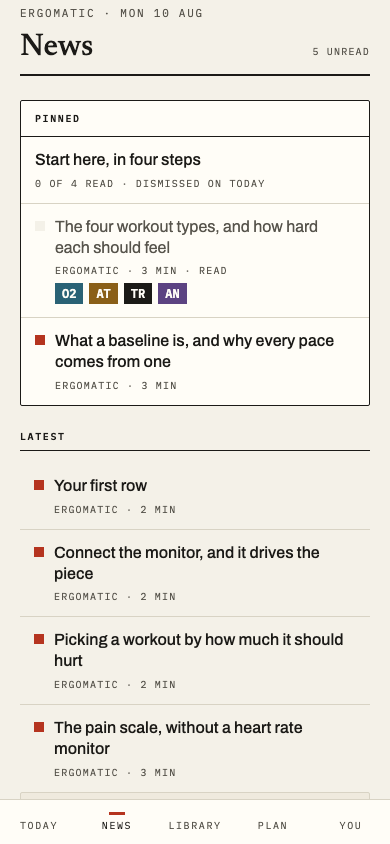
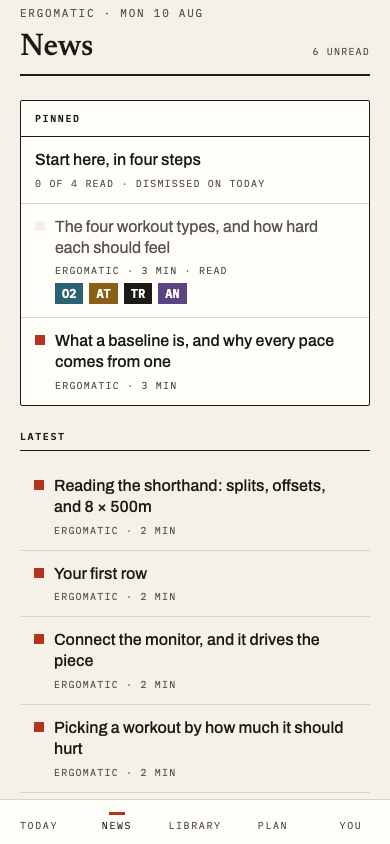
feat: News teaches the shorthand — splits, offsets, chains, rest, SPM
Claude-Session: https://claude.ai/code/session_01KY9P1bYNt9uJ4hgTN18TgH

diff --git a/app/e2e/news.spec.ts b/app/e2e/news.spec.ts
@@ -10,14 +10,14 @@ import { RUN_ID, signInViaBackdoor } from "./helpers";
 // `server/stores/articleReads.ts`), and the compose stack this suite runs
 // against is left running between back-to-back `pnpm e2e` invocations
 // (`E2E_KEEP=1` default, `scripts/e2e.sh`), so a fixed email string would
-// carry read state from one run into the next and make "6 UNREAD" a lie on
+// carry read state from one run into the next and make "7 UNREAD" a lie on
 // the second pass. `RUN_ID` is computed once per test PROCESS (i.e. once
 // per `pnpm e2e` invocation, however many times this file itself re-runs
 // inside a single process) and folded into every email below, so each
 // invocation gets its own never-before-seen users regardless of what a
 // prior run left in the database — the "fresh user" half of the brief's
 // own suggested fix, not the "assert deltas" half, since the brief's own
-// literal assertions ("6 UNREAD", "5 UNREAD" — Phase 6I Task 6 shifted
+// literal assertions ("7 UNREAD", "6 UNREAD" — Phase 6I Task 6 shifted
 // these up by 2 from the original "4 UNREAD"/"3 UNREAD" once
 // your-first-row/connect-the-monitor joined the registry) are absolute
 // counts.
@@ -42,7 +42,7 @@ test("tab order: TODAY · NEWS · LIBRARY · PLAN · YOU, TREND gone", async ({
   expect(labels).toEqual(["TODAY", "NEWS", "LIBRARY", "PLAN", "YOU"]);
 });
 
-test("News at rest: 6 UNREAD, two pinned rows, four latest rows, WHAT'S NEW v0.5.1", async ({
+test("News at rest: 7 UNREAD, two pinned rows, five latest rows, WHAT'S NEW v0.5.1", async ({
   page,
 }) => {
   await signInViaBackdoor(page, {
@@ -51,7 +51,7 @@ test("News at rest: 6 UNREAD, two pinned rows, four latest rows, WHAT'S NEW v0.5
   });
   await page.goto("/news");
 
-  await expect(page.locator(".news-unread-count")).toHaveText("6 UNREAD");
+  await expect(page.locator(".news-unread-count")).toHaveText("7 UNREAD");
 
   // PINNED: workout-types (with type chips), then baselines — registry
   // order, both permanently pinned (articles.tsx's own `pinned: true`).
@@ -75,20 +75,24 @@ test("News at rest: 6 UNREAD, two pinned rows, four latest rows, WHAT'S NEW v0.5
   // whatsnew)` selector would still correctly skip, but a named positive
   // selector is the more robust contract going forward.
   const latestRows = page.locator(".news-latest .news-row");
-  await expect(latestRows).toHaveCount(4);
+  await expect(latestRows).toHaveCount(5);
   await expect(latestRows.nth(0)).toHaveAttribute(
     "href",
-    "/news/your-first-row",
+    "/news/reading-the-shorthand",
   );
   await expect(latestRows.nth(1)).toHaveAttribute(
     "href",
-    "/news/connect-the-monitor",
+    "/news/your-first-row",
   );
   await expect(latestRows.nth(2)).toHaveAttribute(
     "href",
+    "/news/connect-the-monitor",
+  );
+  await expect(latestRows.nth(3)).toHaveAttribute(
+    "href",
     "/news/picking-a-workout",
   );
-  await expect(latestRows.nth(3)).toHaveAttribute("href", "/news/pain-scale");
+  await expect(latestRows.nth(4)).toHaveAttribute("href", "/news/pain-scale");
 
   await expect(page.getByRole("heading", { name: "WHAT'S NEW" })).toBeVisible();
   await expect(page.locator(".news-release-version").first()).toContainText(
@@ -104,7 +108,7 @@ test("opening the baselines article marks it read, and the read survives BACK an
     name: "News Reader",
   });
   await page.goto("/news");
-  await expect(page.locator(".news-unread-count")).toHaveText("6 UNREAD");
+  await expect(page.locator(".news-unread-count")).toHaveText("7 UNREAD");
 
   const baselinesRow = page.locator('a.news-row[href="/news/baselines"]');
   await expect(baselinesRow).toHaveAttribute("data-read", "false");
@@ -121,7 +125,7 @@ test("opening the baselines article marks it read, and the read survives BACK an
   await page.getByRole("link", { name: "← BACK" }).click();
   await expect(page).toHaveURL(/\/news$/);
 
-  await expect(page.locator(".news-unread-count")).toHaveText("5 UNREAD");
+  await expect(page.locator(".news-unread-count")).toHaveText("6 UNREAD");
   await expect(baselinesRow).toHaveAttribute("data-read", "true");
   await expect(baselinesRow.locator(".news-row-meta")).toContainText("READ");
 
@@ -129,7 +133,7 @@ test("opening the baselines article marks it read, and the read survives BACK an
   // navigation (same SPA session) but not a hard reload — this is the one
   // assertion no client test can give, the entire point of this phase.
   await page.reload();
-  await expect(page.locator(".news-unread-count")).toHaveText("5 UNREAD");
+  await expect(page.locator(".news-unread-count")).toHaveText("6 UNREAD");
   await expect(baselinesRow).toHaveAttribute("data-read", "true");
   await expect(baselinesRow.locator(".news-row-meta")).toContainText("READ");
 });

diff --git a/app/src/news/content/bodies/notation.tsx b/app/src/news/content/bodies/notation.tsx
@@ -1,0 +1,66 @@
+import ArticleLink from "../../ArticleLink";
+
+export function NotationBody() {
+  return (
+    <>
+      <p>
+        Rowing has its own shorthand, and the app uses it everywhere: on Today's
+        suggestion, in the Library's structure lines, on the monitor. None of it
+        is complicated. It just assumes you know five small conventions, so here
+        they are.
+      </p>
+
+      <p>
+        <strong>The split.</strong> Rowers do not measure speed in kilometres
+        per hour. They measure how long 500 metres takes, and call it a split. A
+        split of 2:05.0 means every 500 metres costs you two minutes and five
+        seconds. Smaller number, faster boat: 2:00 is quicker than 2:10. The
+        decimal is tenths of a second, and yes, tenths matter. Every pace target
+        in the app is a split.
+      </p>
+
+      <p>
+        <strong>Offsets.</strong> A workout never names a raw split, because
+        your raw split changes as you get fitter. Instead it says 6k +10: your{" "}
+        <ArticleLink to="/news/baselines">6k baseline pace</ArticleLink>, plus
+        ten seconds per 500. Plus means slower and easier; minus means faster
+        and harder. 6k +10 is a conversational cruise, 2k −2 is a bad place to
+        live. When a piece says ALL OUT or EASY instead, that is deliberate:
+        some efforts are not supposed to have a number.
+      </p>
+
+      <p>
+        <strong>Counts and chains.</strong> 8 × 500m reads "eight pieces of 500
+        metres each". When the pieces differ, they chain with hyphens:
+        2-4-6-8-6-4-2 is seven pieces climbing from two minutes up to eight and
+        back down. The convention doing quiet work here: a bare number is
+        minutes, and metres always wear their unit. So 2000m-6-1000m-3 is a
+        2,000 metre piece, six minutes, a 1,000 metre piece, three minutes. If
+        there is no m, you are reading time.
+      </p>
+
+      <p>
+        <strong>Rest.</strong> The tick mark is minutes: 2′ r after a piece
+        means two minutes of easy movement before the next one, and · 2′ REST on
+        a Library line means every gap in that workout is the same two minutes.
+        Rest belongs to the piece it follows. On Today, a piece with no rest
+        after it is usually the last one.
+      </p>
+
+      <p>
+        <strong>Stroke rate.</strong> SPM is strokes per minute, and it is
+        cadence, not effort. You can pull hard and slow at 20, or light and
+        quick at 30. When a piece names a rate, hold the rate and let the split
+        come from how hard each stroke is. That separation is most of erg
+        technique in one sentence.
+      </p>
+
+      <p>
+        Two more numbers you will meet on Today's card: WORK is the rowing
+        alone, TOTAL adds the rests. The difference is exactly the recovery you
+        are owed, and nothing about either includes your warm-up, which belongs
+        to you and lives on the You screen.
+      </p>
+    </>
+  );
+}

diff --git a/app/src/news/News.test.tsx b/app/src/news/News.test.tsx
@@ -67,7 +67,7 @@ beforeEach(() => {
 });
 
 describe("News", () => {
-  it("ready with nothing read: both pins and all four latest stories render, 6 UNREAD, every square unread", () => {
+  it("ready with nothing read: both pins and all five latest stories render, 7 UNREAD, every square unread", () => {
     mockUseArticleReads.mockReturnValue(readyState([]));
     const { container } = renderNews();
 
@@ -87,21 +87,24 @@ describe("News", () => {
     expect(
       screen.getByText("Connect the monitor, and it drives the piece"),
     ).toBeVisible();
+    expect(
+      screen.getByText("Reading the shorthand: splits, offsets, and 8 × 500m"),
+    ).toBeVisible();
 
-    expect(screen.getByText("6 UNREAD")).toBeVisible();
+    expect(screen.getByText("7 UNREAD")).toBeVisible();
 
     const squares = container.querySelectorAll(".news-square");
-    expect(squares).toHaveLength(6);
+    expect(squares).toHaveLength(7);
     for (const sq of squares) {
       expect(sq).toHaveAttribute("data-read", "false");
     }
   });
 
-  it("baselines read: count drops to 5 UNREAD, only the baselines square/meta flip to read", () => {
+  it("baselines read: count drops to 6 UNREAD, only the baselines square/meta flip to read", () => {
     mockUseArticleReads.mockReturnValue(readyState(["baselines"]));
     const { container } = renderNews();
 
-    expect(screen.getByText("5 UNREAD")).toBeVisible();
+    expect(screen.getByText("6 UNREAD")).toBeVisible();
 
     const baselinesRow = screen
       .getByText("What a baseline is, and why every pace comes from one")
@@ -116,7 +119,7 @@ describe("News", () => {
     const otherSquares = [...container.querySelectorAll(".news-square")].filter(
       (sq) => sq !== baselinesRow!.querySelector(".news-square"),
     );
-    expect(otherSquares).toHaveLength(5);
+    expect(otherSquares).toHaveLength(6);
     for (const sq of otherSquares) {
       expect(sq).toHaveAttribute("data-read", "false");
     }
@@ -131,6 +134,7 @@ describe("News", () => {
         "pain-scale",
         "your-first-row",
         "connect-the-monitor",
+        "reading-the-shorthand",
       ]),
     );
     renderNews();

diff --git a/app/e2e/onboarding.spec.ts b/app/e2e/onboarding.spec.ts
@@ -148,7 +148,7 @@ test.describe("Phase 6I: Today onboarding — the fresh-user arc", () => {
     //    advances the SAME count Today's block shows (the spec's own
     //    "linking rather than restating" principle) — no restating needed.
     await page.goto("/news");
-    await expect(page.locator(".news-unread-count")).toHaveText("6 UNREAD");
+    await expect(page.locator(".news-unread-count")).toHaveText("7 UNREAD");
     await page.locator('a.news-row[href="/news/baselines"]').click();
     await expect(page).toHaveURL(/\/news\/baselines$/);
     await expect(page.locator(".reader-body")).toBeVisible();
@@ -381,7 +381,7 @@ test.describe("Phase 6I: Today onboarding — the fresh-user arc", () => {
     // from 5 (after the earlier read) to 6 (this account's full, untouched
     // registry) — a real reversal, not merely "still shows 6 because
     // nothing else was ever read."
-    await expect(page.locator(".news-unread-count")).toHaveText("6 UNREAD");
+    await expect(page.locator(".news-unread-count")).toHaveText("7 UNREAD");
     await expect(
       page.locator('a.news-row[href="/news/baselines"]'),
     ).toHaveAttribute("data-read", "false");

diff --git a/app/src/news/content/articles.tsx b/app/src/news/content/articles.tsx
@@ -5,6 +5,7 @@ import { PickingAWorkoutBody } from "./bodies/pickingAWorkout";
 import { PainScaleBody } from "./bodies/painScale";
 import { YourFirstRowBody } from "./bodies/yourFirstRow";
 import { ConnectTheMonitorBody } from "./bodies/connectTheMonitor";
+import { NotationBody } from "./bodies/notation";
 
 // Registry order is display order (pins first, then latest — within a tie
 // on `publishedAt`, `latestArticles`' stable sort falls back to THIS array
@@ -88,6 +89,18 @@ export const ARTICLES: NewsArticle[] = [
     pinned: false,
     publishedAt: "2026-08-08",
     body: <ConnectTheMonitorBody />,
+  },
+  // Appended per the registry-order rule above: nextUnreadSlug's walk and
+  // the pinned adjacencies stay untouched, and the newest publishedAt
+  // sorts this to the top of LATEST on its own. 292 words -> 2 min.
+  {
+    slug: "reading-the-shorthand",
+    title: "Reading the shorthand: splits, offsets, and 8 × 500m",
+    minutes: 2,
+    kind: "first-party",
+    pinned: false,
+    publishedAt: "2026-08-10",
+    body: <NotationBody />,
   },
 ];
 

diff --git a/app/src/news/content/articles.test.tsx b/app/src/news/content/articles.test.tsx
@@ -51,12 +51,13 @@ describe("article registry invariants", () => {
     expect(connectTheMonitor.minutes).toBe(2);
   });
 
-  it("launch shelf: the two permanent pins plus four latest stories (Phase 6I Task 6: your-first-row/connect-the-monitor land newest, sorting ahead of the two 6H stories)", () => {
+  it("launch shelf: the two permanent pins plus five latest stories (reading-the-shorthand lands newest of all)", () => {
     expect(pinnedArticles().map((a) => a.slug)).toStrictEqual([
       "workout-types",
       "baselines",
     ]);
     expect(latestArticles().map((a) => a.slug)).toStrictEqual([
+      "reading-the-shorthand",
       "your-first-row",
       "connect-the-monitor",
       "picking-a-workout",
@@ -119,6 +120,7 @@ describe("selectors", () => {
           "picking-a-workout",
           "your-first-row",
           "connect-the-monitor",
+          "reading-the-shorthand",
         ]),
       ),
     ).toStrictEqual("workout-types");

diff --git a/app/src/news/Reader.test.tsx b/app/src/news/Reader.test.tsx
@@ -180,6 +180,7 @@ describe("Reader", () => {
         "pain-scale",
         "your-first-row",
         "connect-the-monitor",
+        "reading-the-shorthand",
       ]),
     );
     renderReader("/news/baselines");
